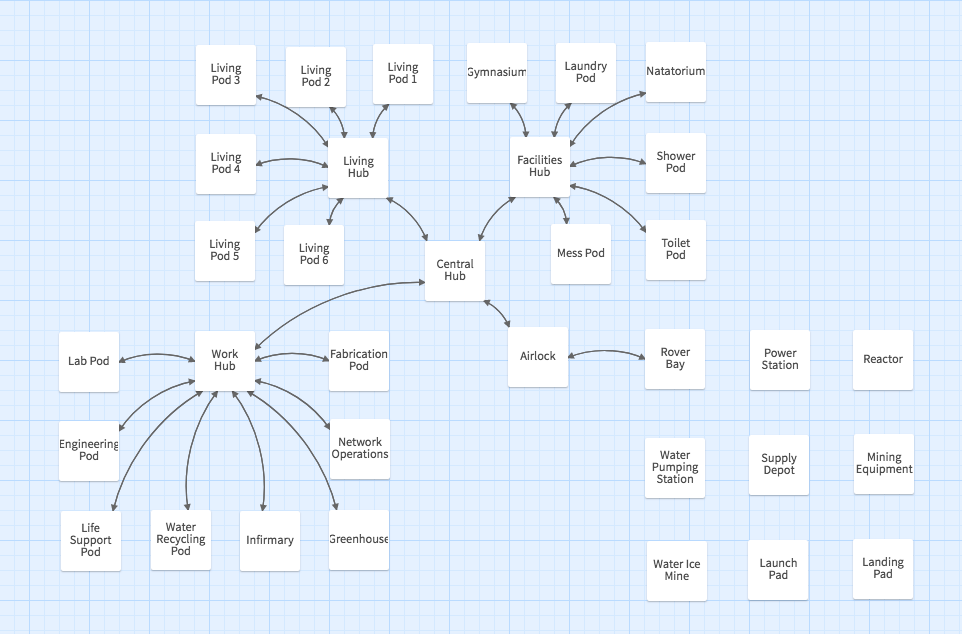
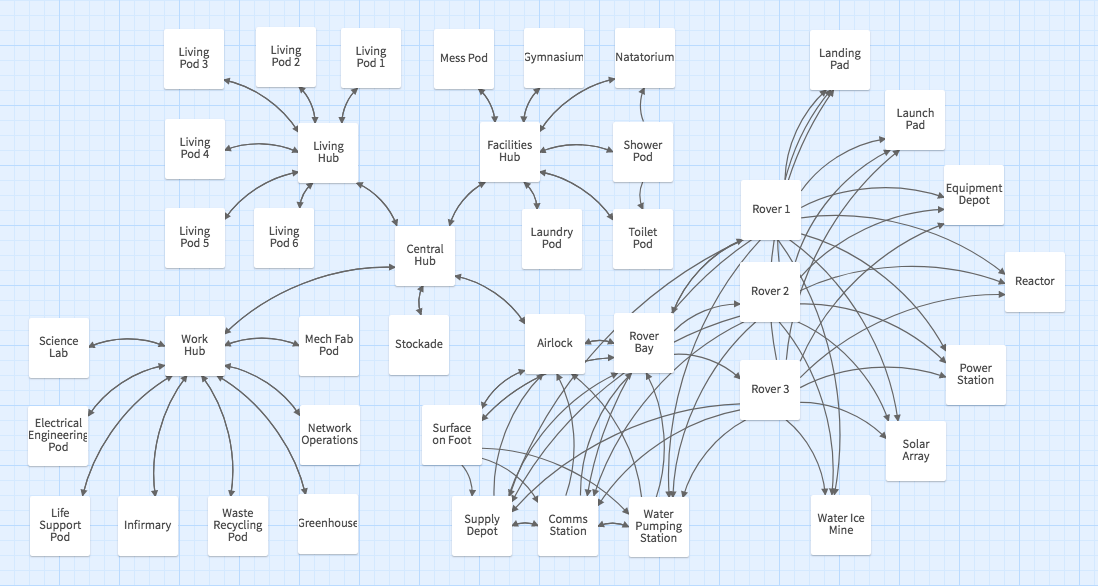
All pods and surface destinations linked and playable

diff --git a/dist/index.html b/dist/index.html
@@ -12,7 +12,61 @@
 
 <tw-story></tw-story>
 
-<!-- UUID://EECB013A-0FC6-41CB-9CF1-07D791258C06// --><tw-storydata name="Mars Colony" startnode="1" creator="Tweego" creator-version="2.0.0+089d4ca77e5b" ifid="EECB013A-0FC6-41CB-9CF1-07D791258C06" zoom="1" format="Harlowe" format-version="3.0.2" options="" hidden><style role="stylesheet" id="twine-user-stylesheet" type="text/twine-css">.test{display:block}</style><script role="script" id="twine-user-script" type="text/twine-javascript">"use strict";</script><tw-passagedata pid="1" name="Start" tags="" position="100,100" size="100,100">Hello World!</tw-passagedata></tw-storydata>
+<!-- UUID://EECB013A-0FC6-41CB-9CF1-07D791258C06// --><tw-storydata name="Mars Colony" startnode="1" creator="Tweego" creator-version="2.0.0+089d4ca77e5b" ifid="EECB013A-0FC6-41CB-9CF1-07D791258C06" zoom="1" format="Harlowe" format-version="3.0.2" options="" hidden><style role="stylesheet" id="twine-user-stylesheet" type="text/twine-css">.test{display:block}</style><script role="script" id="twine-user-script" type="text/twine-javascript">"use strict";</script><tw-passagedata pid="1" name="Central Hub" tags="hub" position="100,100" size="100,100">Exits:
+[[Living Hub]] | [[Facilities Hub]]
+[[Work Hub]] | [[Airlock]]
+[[Stockade]]</tw-passagedata><tw-passagedata pid="2" name="Stockade" tags="pod" position="225,100" size="100,100">[[Exit to Central Hub-&gt;Central Hub]]</tw-passagedata><tw-passagedata pid="3" name="Facilities Hub" tags="hub" position="350,100" size="100,100">Exits:
+[[Central Hub]]
+[[Gymnasium]] | [[Natatorium]]
+[[Shower Pod]] | [[Toilet Pod]]
+[[Laundry Pod]] | [[Mess Pod]]</tw-passagedata><tw-passagedata pid="4" name="Gymnasium" tags="pod" position="475,100" size="100,100">[[Exit to Facilities Hub-&gt;Facilities Hub]]</tw-passagedata><tw-passagedata pid="5" name="Laundry Pod" tags="pod" position="600,100" size="100,100">[[Exit to Facilities Hub-&gt;Facilities Hub]]</tw-passagedata><tw-passagedata pid="6" name="Mess Pod" tags="pod" position="725,100" size="100,100">[[Exit to Facilities Hub-&gt;Facilities Hub]]</tw-passagedata><tw-passagedata pid="7" name="Natatorium" tags="pod" position="850,100" size="100,100">Exits:
+[[Facilities Hub]]
+[[Shower Pod]]</tw-passagedata><tw-passagedata pid="8" name="Shower Pod" tags="pod" position="975,100" size="100,100">Exits:
+[[Facilities Hub]]
+[[Natatorium]]
+[[Toilet Pod]]</tw-passagedata><tw-passagedata pid="9" name="Toilet Pod" tags="pod" position="1100,100" size="100,100">Exits:
+[[Facilities Hub]]
+[[Shower Pod]]</tw-passagedata><tw-passagedata pid="10" name="Living Hub" tags="hub" position="1225,100" size="100,100">Exits:
+[[Central Hub]]
+[[Living Pod 1]] | [[Living Pod 4]]
+[[Living Pod 2]] | [[Living Pod 5]]
+[[Living Pod 3]] | [[Living Pod 6]]</tw-passagedata><tw-passagedata pid="11" name="Living Pod 1" tags="pod" position="100,225" size="100,100">[[Exit to Living Hub-&gt;Living Hub]]</tw-passagedata><tw-passagedata pid="12" name="Living Pod 2" tags="pod" position="225,225" size="100,100">[[Exit to Living Hub-&gt;Living Hub]]</tw-passagedata><tw-passagedata pid="13" name="Living Pod 3" tags="pod" position="350,225" size="100,100">[[Exit to Living Hub-&gt;Living Hub]]</tw-passagedata><tw-passagedata pid="14" name="Living Pod 4" tags="pod" position="475,225" size="100,100">[[Exit to Living Hub-&gt;Living Hub]]</tw-passagedata><tw-passagedata pid="15" name="Living Pod 5" tags="pod" position="600,225" size="100,100">[[Exit to Living Hub-&gt;Living Hub]]</tw-passagedata><tw-passagedata pid="16" name="Living Pod 6" tags="pod" position="725,225" size="100,100">[[Exit to Living Hub-&gt;Living Hub]]</tw-passagedata><tw-passagedata pid="17" name="Electrical Engineering" tags="pod" position="850,225" size="100,100">[[Exit to Work Hub-&gt;Work Hub]]</tw-passagedata><tw-passagedata pid="18" name="Greenhouse" tags="pod" position="975,225" size="100,100">[[Exit to Work Hub-&gt;Work Hub]]</tw-passagedata><tw-passagedata pid="19" name="Infirmary" tags="pod" position="1100,225" size="100,100">[[Exit to Work Hub-&gt;Work Hub]]</tw-passagedata><tw-passagedata pid="20" name="Life Support" tags="pod" position="1225,225" size="100,100">[[Exit to Work Hub-&gt;Work Hub]]</tw-passagedata><tw-passagedata pid="21" name="Mechanical Fabrication" tags="pod" position="100,350" size="100,100">[[Exit to Work Hub-&gt;Work Hub]]</tw-passagedata><tw-passagedata pid="22" name="Network Operations" tags="pod" position="225,350" size="100,100">[[Exit to Work Hub-&gt;Work Hub]]</tw-passagedata><tw-passagedata pid="23" name="Science Lab" tags="pod" position="350,350" size="100,100">[[Exit to Work Hub-&gt;Work Hub]]</tw-passagedata><tw-passagedata pid="24" name="Waste Recycling" tags="pod" position="475,350" size="100,100">[[Exit to Work Hub-&gt;Work Hub]]</tw-passagedata><tw-passagedata pid="25" name="Work Hub" tags="hub" position="600,350" size="100,100">Exits:
+[[Central Hub]]
+[[Mechanical Fabrication]] | [[Electrical Engineering]]
+[[Network Operations]] | [[Life Support]]
+[[Greenhouse]] | [[Waste Recycling]]
+[[Infirmary]] | [[Science Lab]]</tw-passagedata><tw-passagedata pid="26" name="Header" tags="header" position="725,350" size="100,100">&lt;h2&gt;(print: (passage:)&#39;s name)&lt;/h2&gt;</tw-passagedata><tw-passagedata pid="27" name="Airlock" tags="pod" position="850,350" size="100,100">Exits:
+[[Central Hub]]
+[[Rover Bay]]
+[[Surface on Foot]]</tw-passagedata><tw-passagedata pid="28" name="Equipment Depot" tags="surface" position="975,350" size="100,100"></tw-passagedata><tw-passagedata pid="29" name="Landing Pad" tags="surface" position="1100,350" size="100,100"></tw-passagedata><tw-passagedata pid="30" name="Launch Pad" tags="surface" position="1225,350" size="100,100"></tw-passagedata><tw-passagedata pid="31" name="Power Station" tags="surface" position="100,475" size="100,100"></tw-passagedata><tw-passagedata pid="32" name="Reactor" tags="surface" position="225,475" size="100,100"></tw-passagedata><tw-passagedata pid="33" name="Solar Array" tags="surface" position="350,475" size="100,100"></tw-passagedata><tw-passagedata pid="34" name="Water Ice Mine" tags="surface" position="475,475" size="100,100"></tw-passagedata><tw-passagedata pid="35" name="Comms Station" tags="surface" position="600,475" size="100,100">Destinations:
+[[Airlock]] | [[Rover Bay]]
+[[Supply Depot]] | [[Water Pumping Station]]</tw-passagedata><tw-passagedata pid="36" name="Supply Depot" tags="surface" position="725,475" size="100,100">Destinations:
+[[Airlock]] | [[Rover Bay]]
+[[Comms Station]]</tw-passagedata><tw-passagedata pid="37" name="Surface on Foot" tags="surface" position="850,475" size="100,100">Destinations:
+[[Airlock]] | [[Rover Bay]]
+[[Comms Station]] | [[Supply Depot]]
+[[Water Pumping Station]]</tw-passagedata><tw-passagedata pid="38" name="Water Pumping Station" tags="surface" position="975,475" size="100,100">Destinations:
+[[Airlock]] | [[Rover Bay]]
+[[Comms Station]]</tw-passagedata><tw-passagedata pid="39" name="Rover 1" tags="rover" position="1100,475" size="100,100">Destinations:
+[[Rover Bay]] | [[Equipment Depot]]
+[[Solar Array]] | [[Power Station]]
+[[Landing Pad]] | [[Launch Pad]]
+[[Reactor]]</tw-passagedata><tw-passagedata pid="40" name="Rover 2" tags="rover" position="1225,475" size="100,100">Destinations:
+[[Rover Bay]] | [[Equipment Depot]]
+[[Solar Array]] | [[Power Station]]
+[[Landing Pad]] | [[Launch Pad]]
+[[Reactor]]</tw-passagedata><tw-passagedata pid="41" name="Rover 3" tags="rover" position="100,600" size="100,100">Destinations:
+[[Rover Bay]] | [[Equipment Depot]]
+[[Solar Array]] | [[Power Station]]
+[[Landing Pad]] | [[Launch Pad]]
+[[Reactor]]</tw-passagedata><tw-passagedata pid="42" name="Rover Bay" tags="pod" position="225,600" size="100,100">Rovers:
+[[Rover 1]]
+[[Rover 2]]
+[[Rover 3]]
+
+Exits:
+[[Airlock]]
+[[Surface on Foot]]</tw-passagedata></tw-storydata>
 
 <script title="Twine engine code" data-main="harlowe">"use strict";function _defineProperty(e,t,n){return t in e?Object.defineProperty(e,t,{value:n,enumerable:!0,configurable:!0,writable:!0}):e[t]=n,e}function _toConsumableArray(e){if(Array.isArray(e)){for(var t=0,n=Array(e.length);t<e.length;t++)n[t]=e[t];return n}return Array.from(e)}var _slicedToArray=function(){function e(e,t){var n=[],r=!0,i=!1,o=void 0;try{for(var a,s=e[Symbol.iterator]();!(r=(a=s.next()).done)&&(n.push(a.value),!t||n.length!==t);r=!0);}catch(e){i=!0,o=e}finally{try{!r&&s.return&&s.return()}finally{if(i)throw o}}return n}return function(t,n){if(Array.isArray(t))return t;if(Symbol.iterator in Object(t))return e(t,n);throw new TypeError("Invalid attempt to destructure non-iterable instance")}}(),_typeof="function"==typeof Symbol&&"symbol"==typeof Symbol.iterator?function(e){return typeof e}:function(e){return e&&"function"==typeof Symbol&&e.constructor===Symbol&&e!==Symbol.prototype?"symbol":typeof e};!function(){/**
  * @license almond 0.3.3 Copyright jQuery Foundation and other contributors.
